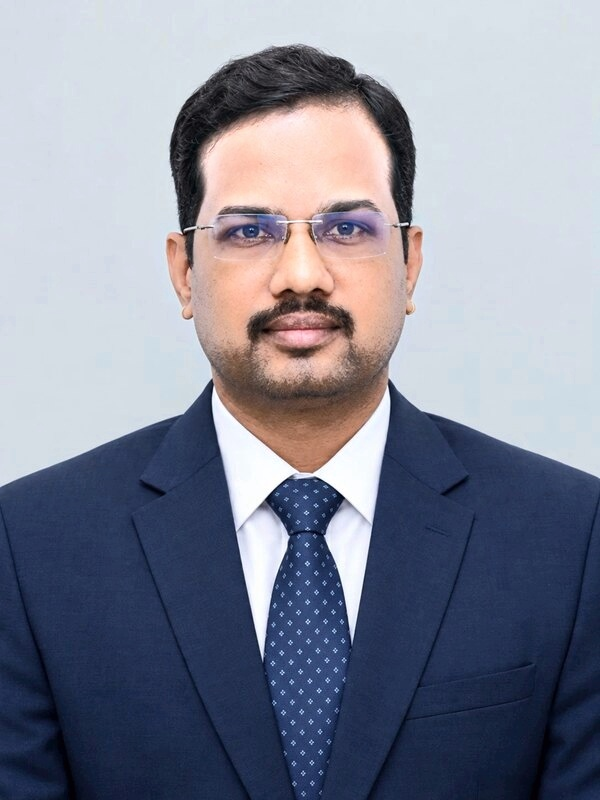
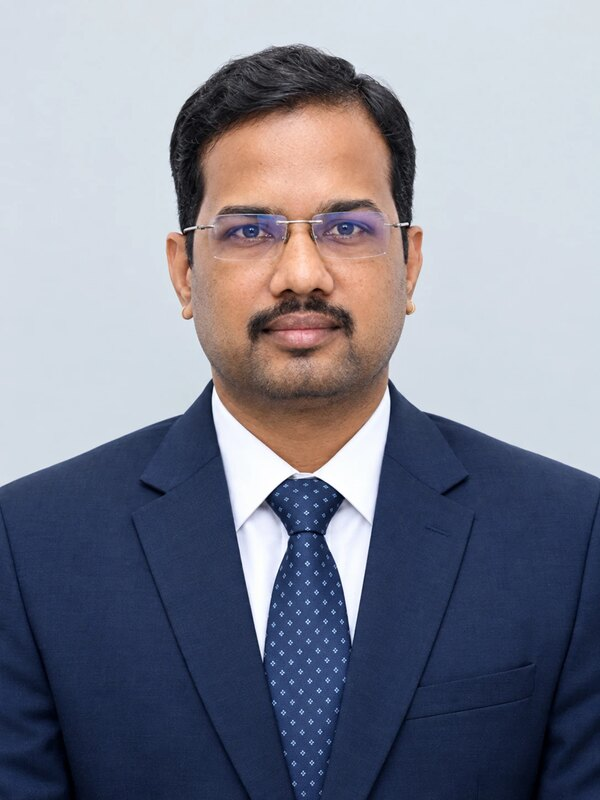
Restore original teacher photo; swap hero buttons
Claude-Session: https://claude.ai/code/session_01Uy8FcDpnGmYFMbPsEiyZgz

Changed region(s): [[0.27, 0.0938, 0.72, 0.5]]

diff --git a/index.html b/index.html
@@ -1009,7 +1009,7 @@ function home(){
   <a class="hqc" href="#unit-3" style="--c:#f2b33d"><span class="hqn">Unit III · Horticulture · 12 lectures</span><b>How can one coconut garden grow four crops at once?</b></a>
  </div>
  <ul class="hx hfeat"><li>🎞 Animated diagrams</li><li>📷 Real field photos</li><li>🧮 Worked examples</li><li>📝 ESE questions with answer points</li><li>✅ Solved assignments</li><li>🔎 Search every note</li></ul>
- <div class="hcta"><a class="hbtn pri" href="#unit-1">Start reading – Unit I →</a><a class="hbtn" href="#syllabus">Explore the syllabus</a></div></div><aside class="prof" aria-label="Course teacher">
+ <div class="hcta"><a class="hbtn" href="#syllabus">Explore the syllabus</a><a class="hbtn pri" href="#unit-1">Start reading – Unit I →</a></div></div><aside class="prof" aria-label="Course teacher">
   <div class="prof-top"><img class="prof-pic" src="photos/dr-vinayak-shinde.jpg" alt="Dr. Vinayak Bhausaheb Shinde"><div><p class="prof-k">Course teacher</p><h2 class="prof-name">Dr. Vinayak Bhausaheb Shinde</h2><p class="prof-role">Assistant Professor – Agricultural Sciences<br>Deputy Controller of Examinations<br>Ph.D Guide – Agri. Business Management<br>D Y Patil Agriculture &amp; Technical University, Talsande, Kolhapur</p></div></div>
   <p class="prof-q">M.Sc. Horticulture (Fruit Science), Ph.D<br>PGDAEM, Diploma in Agro-Journalism<br>Founder-President, KrushiSamarpan Foundation<br>Secretary, ROMIF India, Ahilyanagar District</p>
   <p class="prof-award">🏅 Honoured by the <b>Prime Minister of India</b>, the <b>Chief Minister of Maharashtra</b> and with an <b>international award</b> for agricultural education, research &amp; extension</p>
